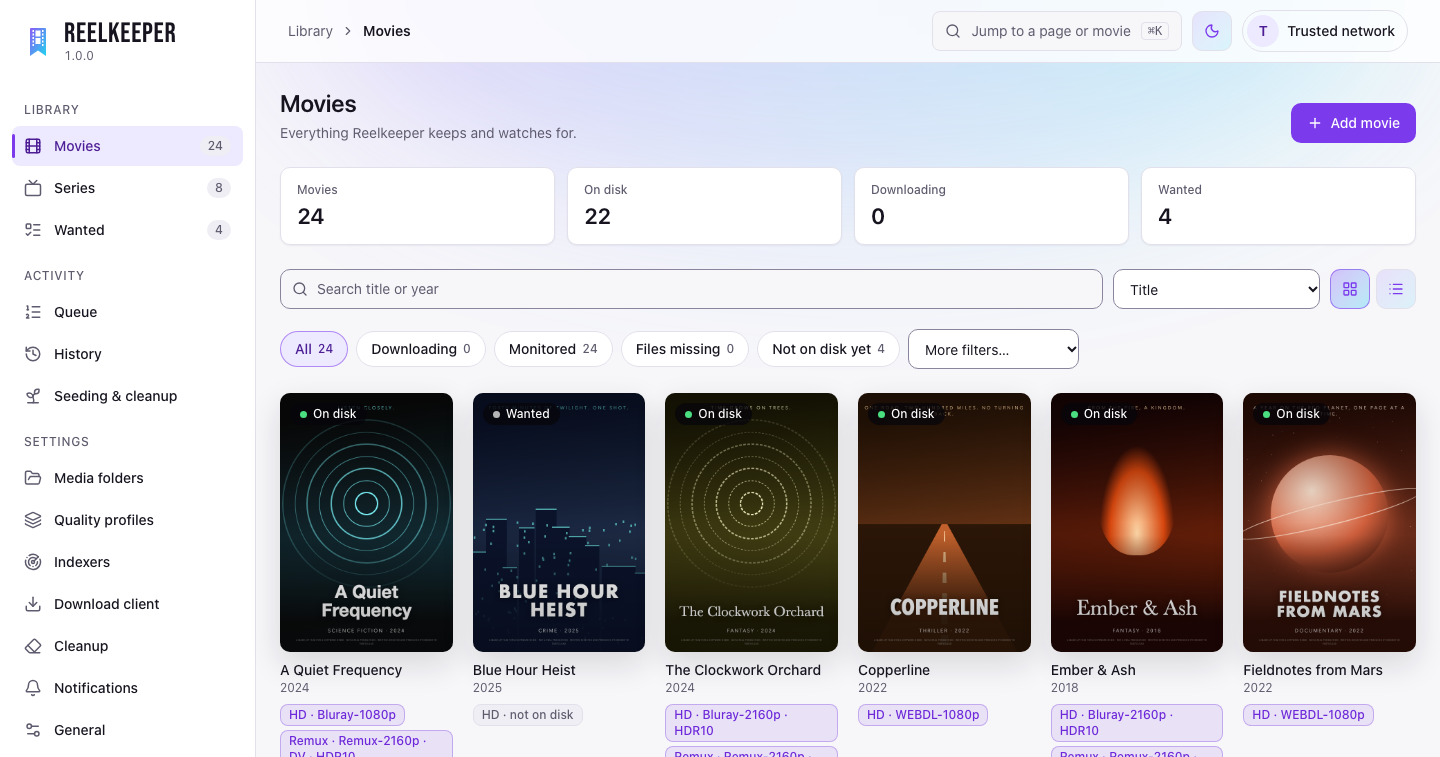
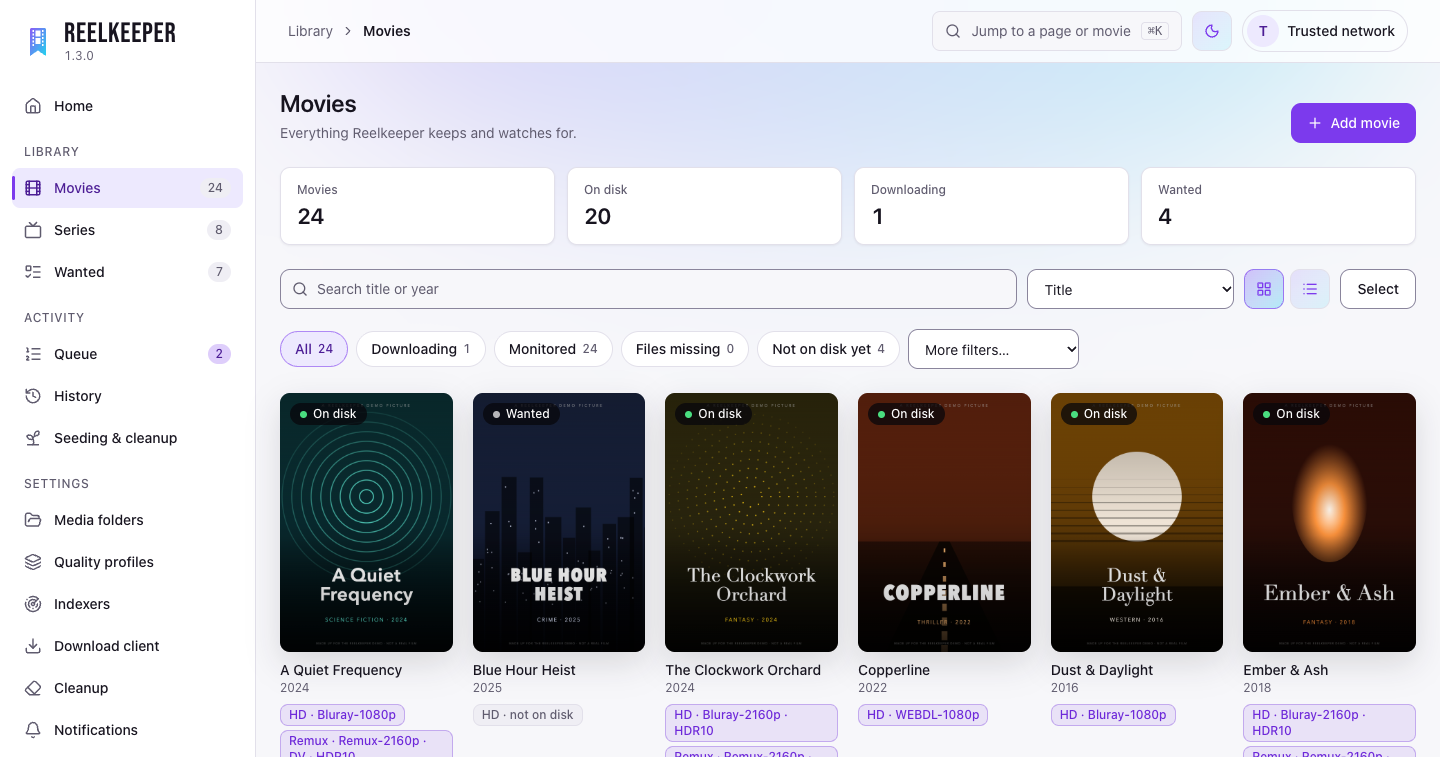
docs: new README screenshots for 1.3.0, with Home and bulk select
Retaken from a made-up demo library (24 movies, 8 shows, invented
posters and History) at 1440x757, scale 1. Adds Home and selecting
several movies to the README's table.

diff --git a/README.md b/README.md
@@ -159,6 +159,8 @@ does the same job, and uses the fact that everything lives together:
 
 | | |
 | --- | --- |
+| ![Home: all good, downloads in progress, recent activity and the week ahead](docs/screenshots/home.png) | ![Three movies selected, about to turn their upgrades off](docs/screenshots/select.png) |
+| **Home**: does anything need you? | **Select** several titles and change them at once |
 | ![A movie's page with its file and quality details](docs/screenshots/movie.png) | ![A series page with its episodes](docs/screenshots/show.png) |
 | **A movie** and every copy of it | **A series** with its seasons and monitoring |
 | ![The Wanted page listing what is still missing](docs/screenshots/wanted.png) | ![History with grabs and imports explained](docs/screenshots/history.png) |
